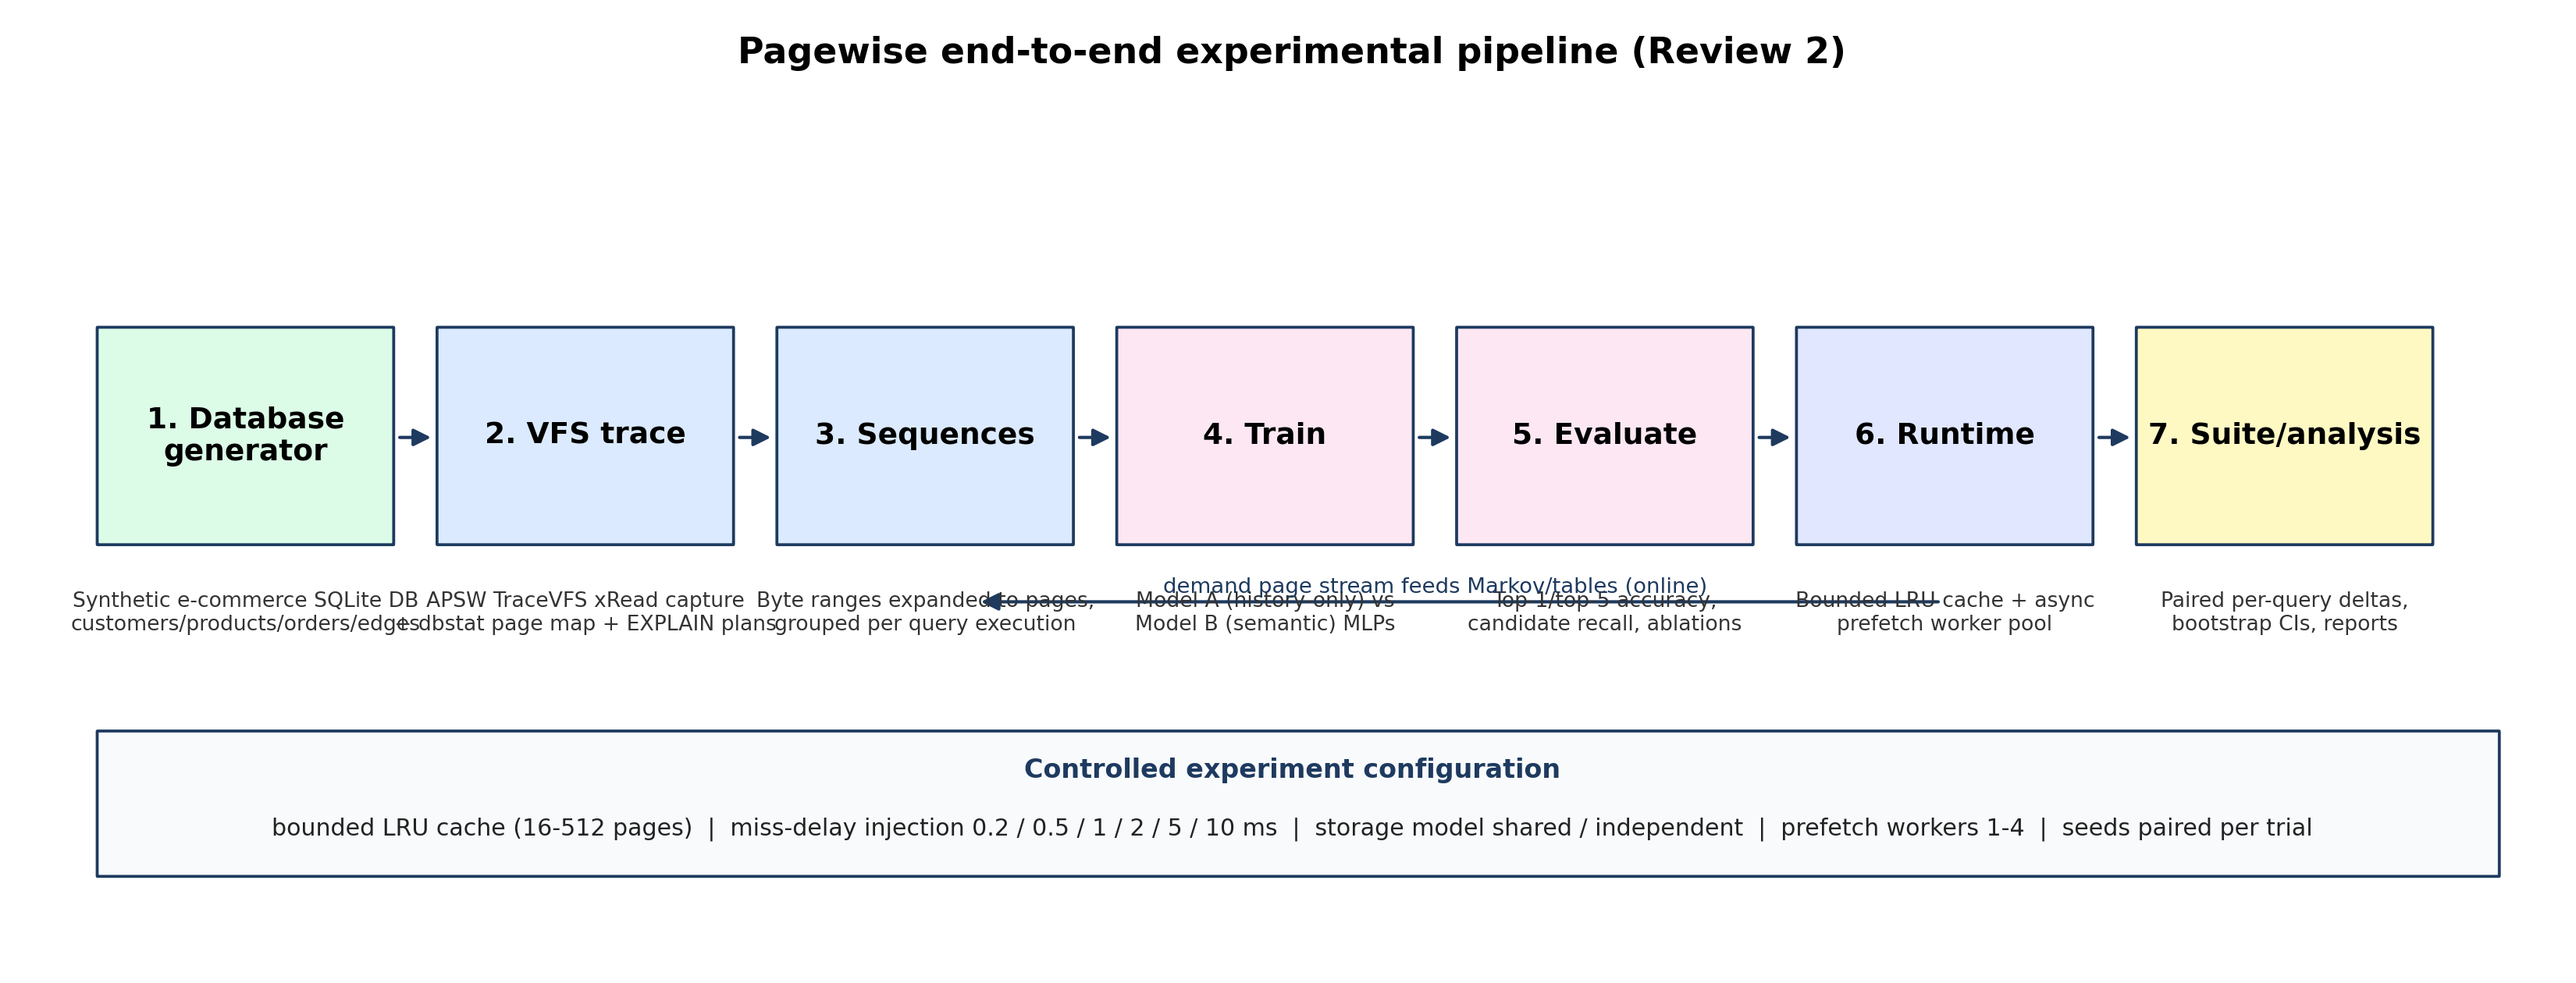
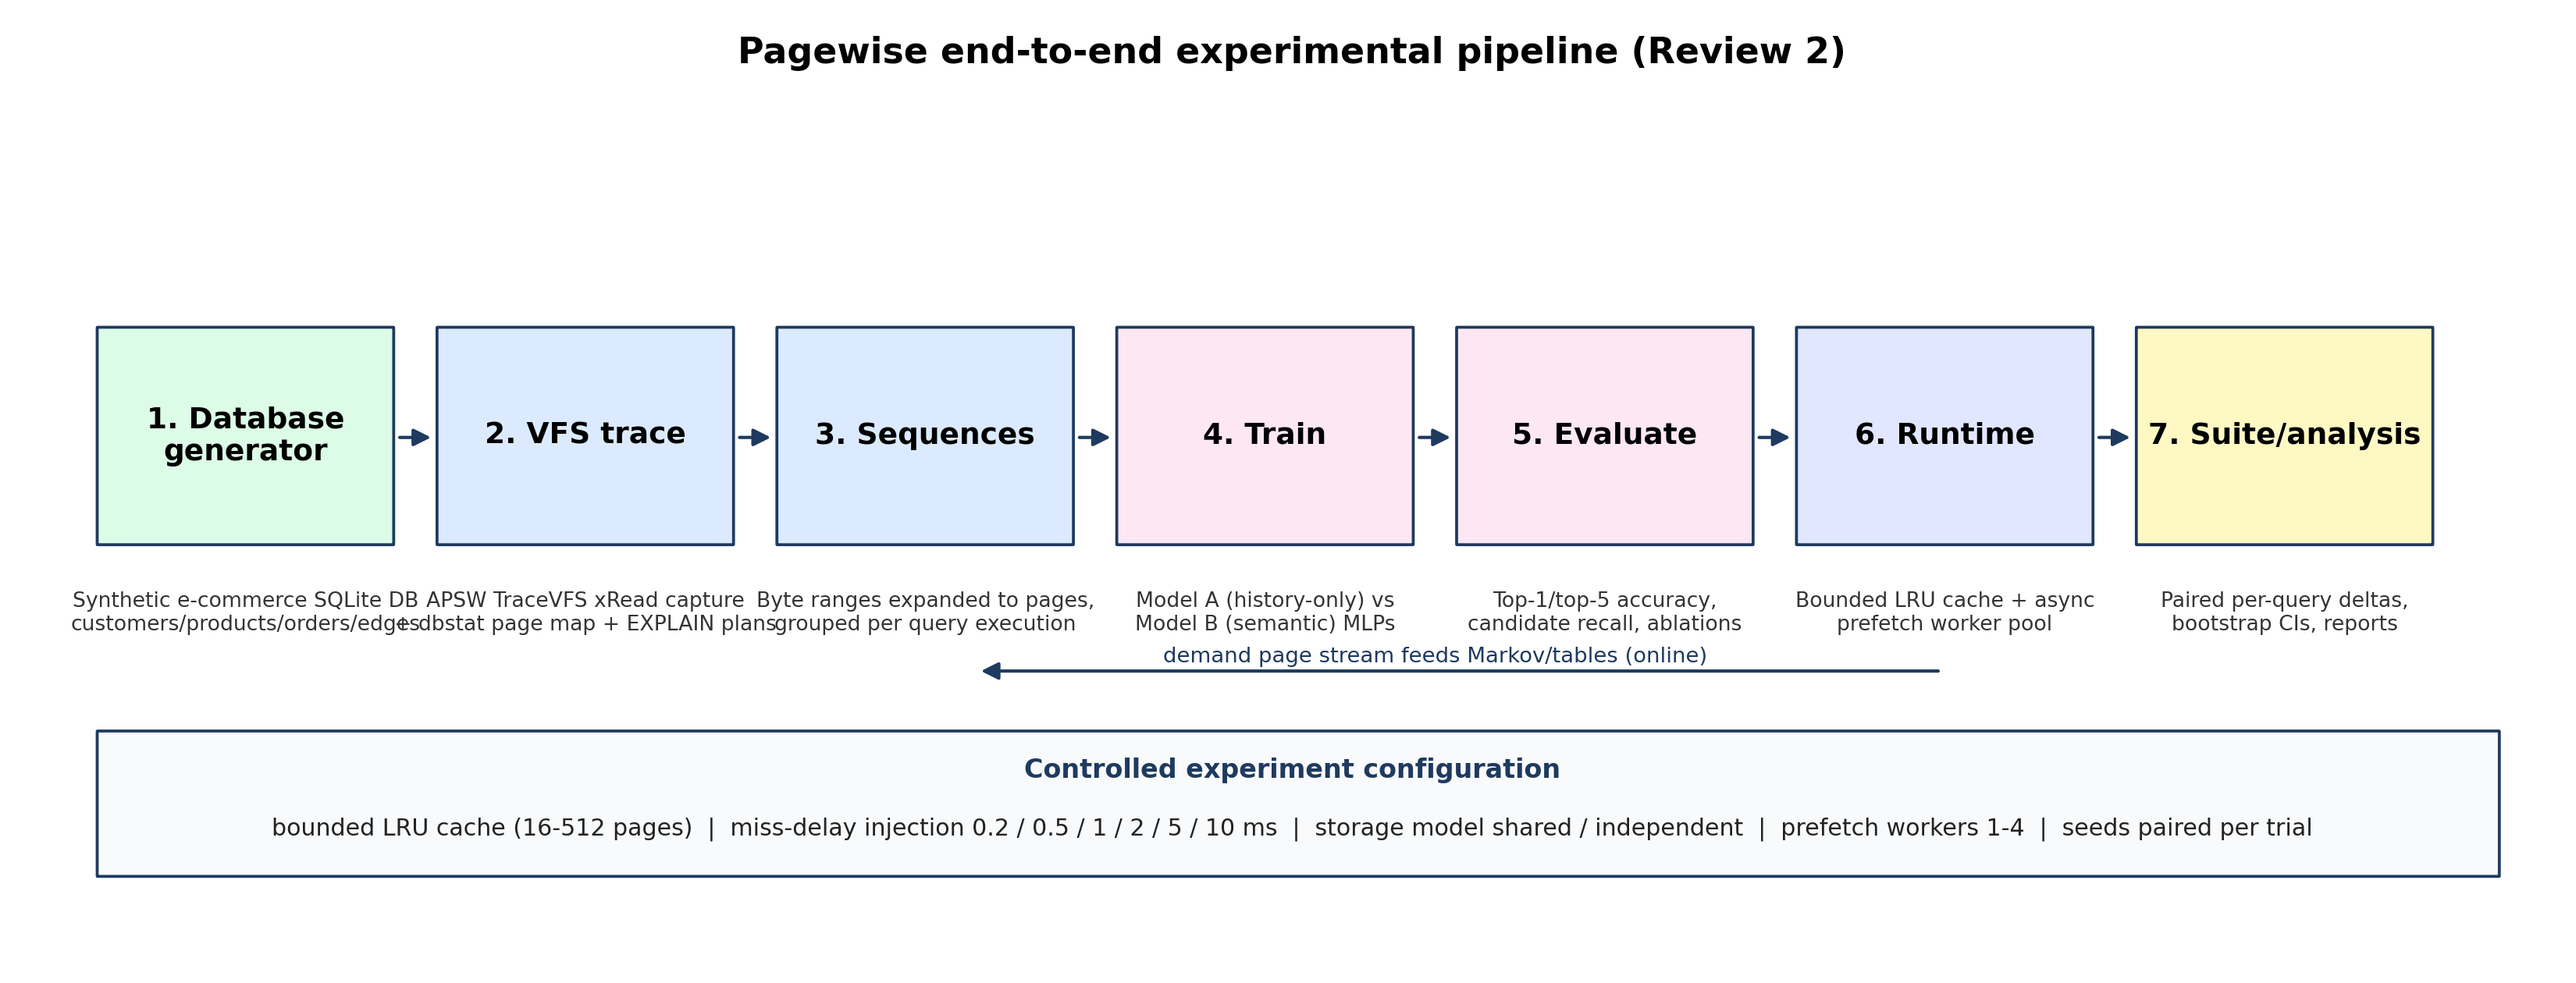
Tweak label position in diagrams

Changed region(s): [[0.3745, 0.65, 0.7491, 0.7119], [0.3745, 0.5881, 0.7491, 0.619]]

diff --git a/backend/review2/diagrams.py b/backend/review2/diagrams.py
@@ -76,8 +76,8 @@ for i, (title, color, sub) in enumerate(stages):
     x += w + gap
 
 # feedback arrow (runtime -> sequences: observed demand stream feeds tables)
-arrow(ax, centers[5], 12.0, centers[2] + 2, 12.0)
-ax.text((centers[5] + centers[2]) / 2, 12.3, "demand page stream feeds Markov/tables (online)",
+arrow(ax, centers[5], 9.6, centers[2] + 2, 9.6)
+ax.text((centers[5] + centers[2]) / 2, 9.9, "demand page stream feeds Markov/tables (online)",
         ha="center", fontsize=6.6, color=EDGE)
 
 # row of experiment controls
